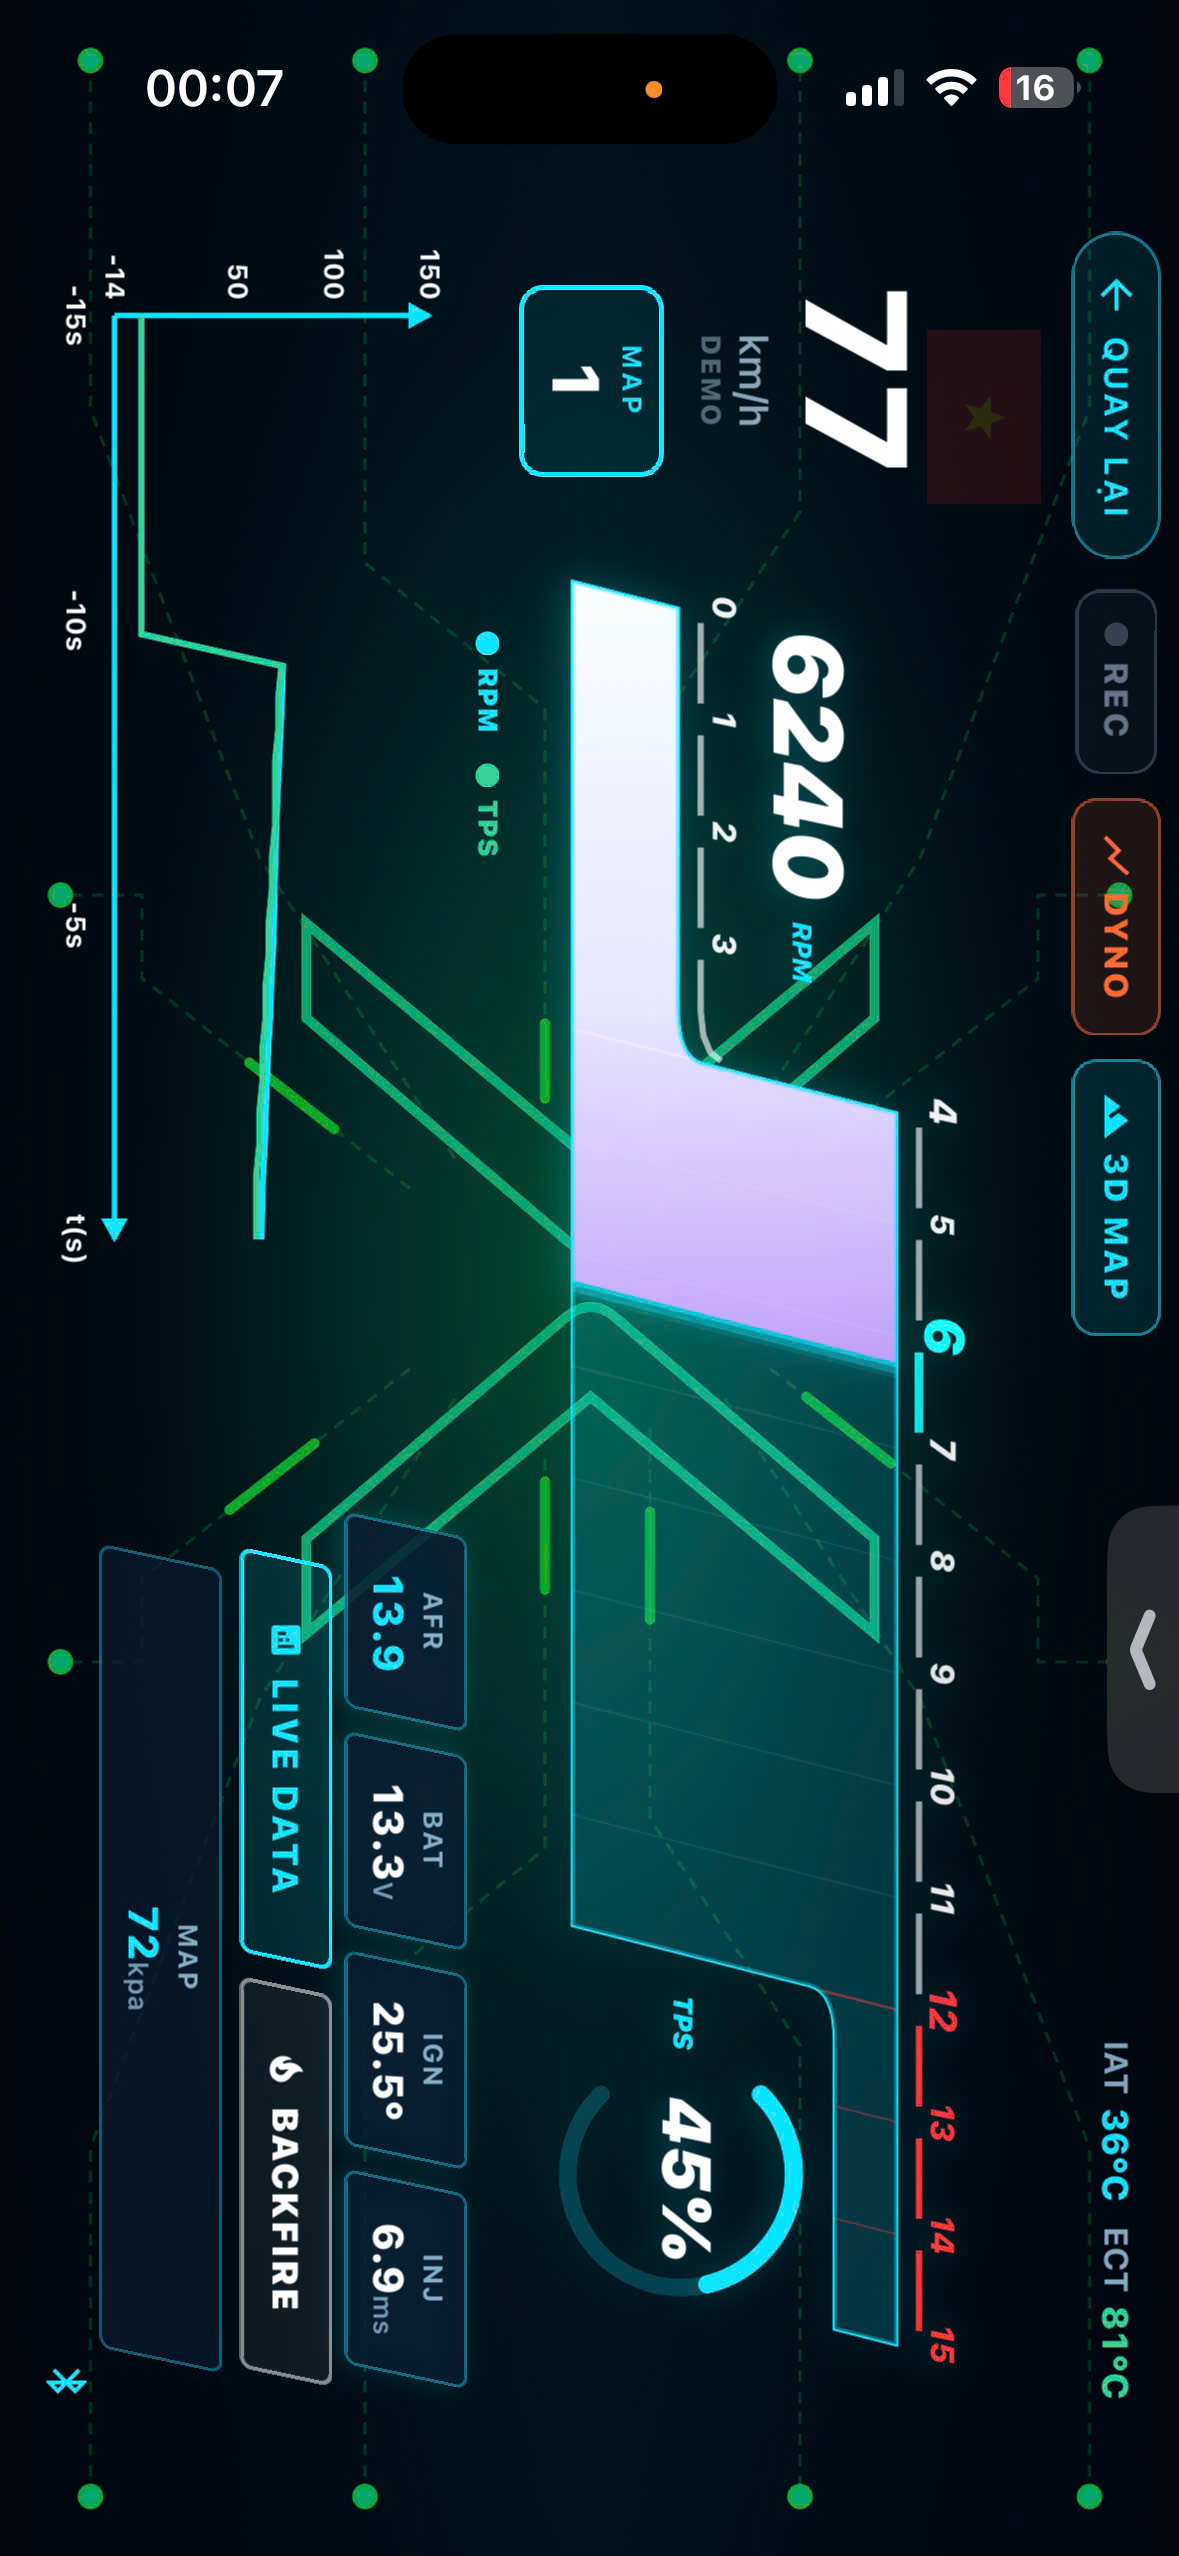
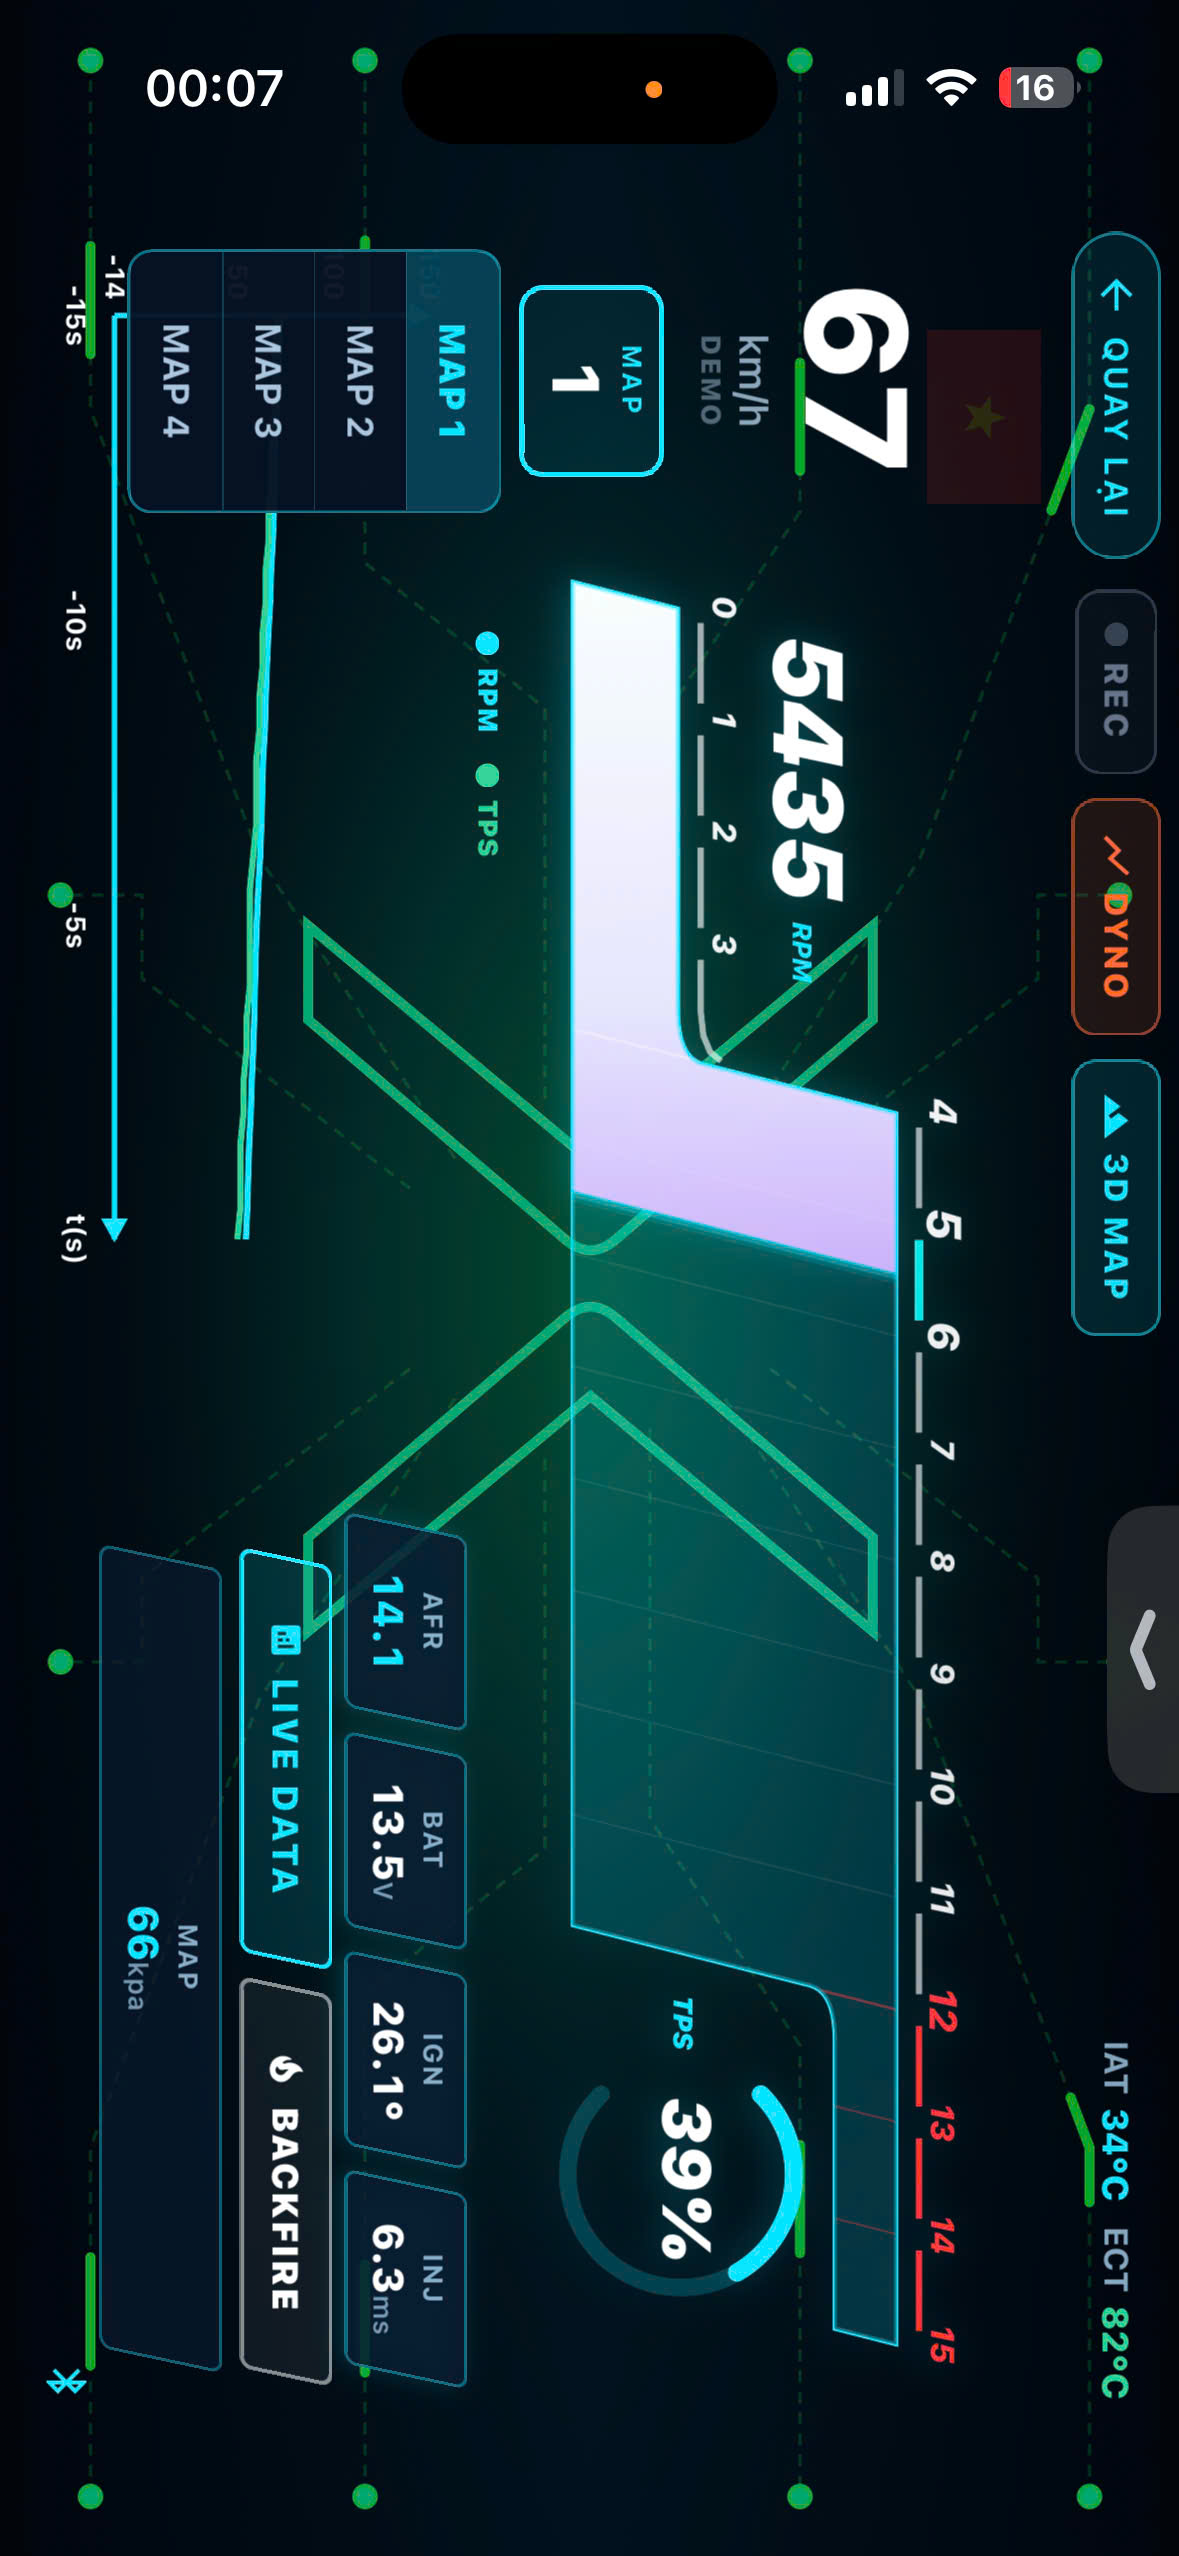
fix(legal): restore Giamsat CamBien ECT/IAT screenshot and remove the duplicate Ma Tran Tinh Chinh Cao Cap image

diff --git a/index.html b/index.html
@@ -169,8 +169,8 @@
 
     <!-- 13 APP SCREENSHOTS GALLERY SECTION -->
     <section class="gallery-section">
-      <h2>Thư Viện Màn Hình Ứng Dụng DN TUNING V2 (13 Ảnh Thực Tế)</h2>
-      <p>Tổng hợp toàn bộ các màn hình chức năng thực tế của ứng dụng DN TUNING V2 trên di động bao gồm Dashboard LIVE Telemetry, Bảng Tinh Chỉnh Map Lượng Phun &amp; Góc Lửa, Màn Hình RACE Cockpit Dyno và Cài Đặt Hệ Thống:</p>
+      <h2>Thư Viện Màn Hình Ứng Dụng DN TUNING V2 (13 Ảnh Độc Quyền)</h2>
+      <p>Tổng hợp toàn bộ các màn hình chức năng thực tế độc nhất của ứng dụng DN TUNING V2 trên di động bao gồm Dashboard LIVE Telemetry, Bảng Tinh Chỉnh Map Lượng Phun &amp; Góc Lửa, Màn Hình RACE Cockpit Dyno và Cài Đặt Hệ Thống:</p>
 
       <div class="gallery-grid">
         <div class="gallery-card">
@@ -267,7 +267,7 @@
             <img src="assets/screenshots/app_09.jpg" alt="DN TUNING V2 Screen 09" loading="lazy" />
           </div>
           <div class="gallery-card-caption">
-            <div class="gallery-card-title">Giám Sát Cảm Biến Động Cơ</div>
+            <div class="gallery-card-title">Giám Sát Cảm Biến ECT / IAT</div>
             <div class="gallery-card-sub">Nhiệt độ máy &amp; Khí nạp real-time</div>
           </div>
         </div>
@@ -278,8 +278,8 @@
             <img src="assets/screenshots/app_10.jpg" alt="DN TUNING V2 Screen 10" loading="lazy" />
           </div>
           <div class="gallery-card-caption">
-            <div class="gallery-card-title">Ma Trận Tinh Chỉnh Cao Cấp</div>
-            <div class="gallery-card-sub">Tối ưu trải nghiệm màn hình tuning</div>
+            <div class="gallery-card-title">Lưu &amp; Ghi Dữ Liệu ECU</div>
+            <div class="gallery-card-sub">Lưu cấu hình an toàn xuống bộ nhớ</div>
           </div>
         </div>
 
@@ -289,8 +289,8 @@
             <img src="assets/screenshots/app_11.jpg" alt="DN TUNING V2 Screen 11" loading="lazy" />
           </div>
           <div class="gallery-card-caption">
-            <div class="gallery-card-title">Lưu &amp; Ghi Dữ Liệu ECU</div>
-            <div class="gallery-card-sub">Lưu cấu hình an toàn xuống bộ nhớ</div>
+            <div class="gallery-card-title">Đo Thời Gian Gia Tốc GPS</div>
+            <div class="gallery-card-sub">Kiểm tra thời gian 0-60km/h, 0-100km/h</div>
           </div>
         </div>
 
@@ -300,8 +300,8 @@
             <img src="assets/screenshots/app_12.jpg" alt="DN TUNING V2 Screen 12" loading="lazy" />
           </div>
           <div class="gallery-card-caption">
-            <div class="gallery-card-title">Đo Thời Gian Gia Tốc GPS</div>
-            <div class="gallery-card-sub">Kiểm tra thời gian 0-60km/h, 0-100km/h</div>
+            <div class="gallery-card-title">Giao Diện Cyberpunk Mode</div>
+            <div class="gallery-card-sub">Tối ưu trải nghiệm ban đêm &amp; đường trường</div>
           </div>
         </div>
 
